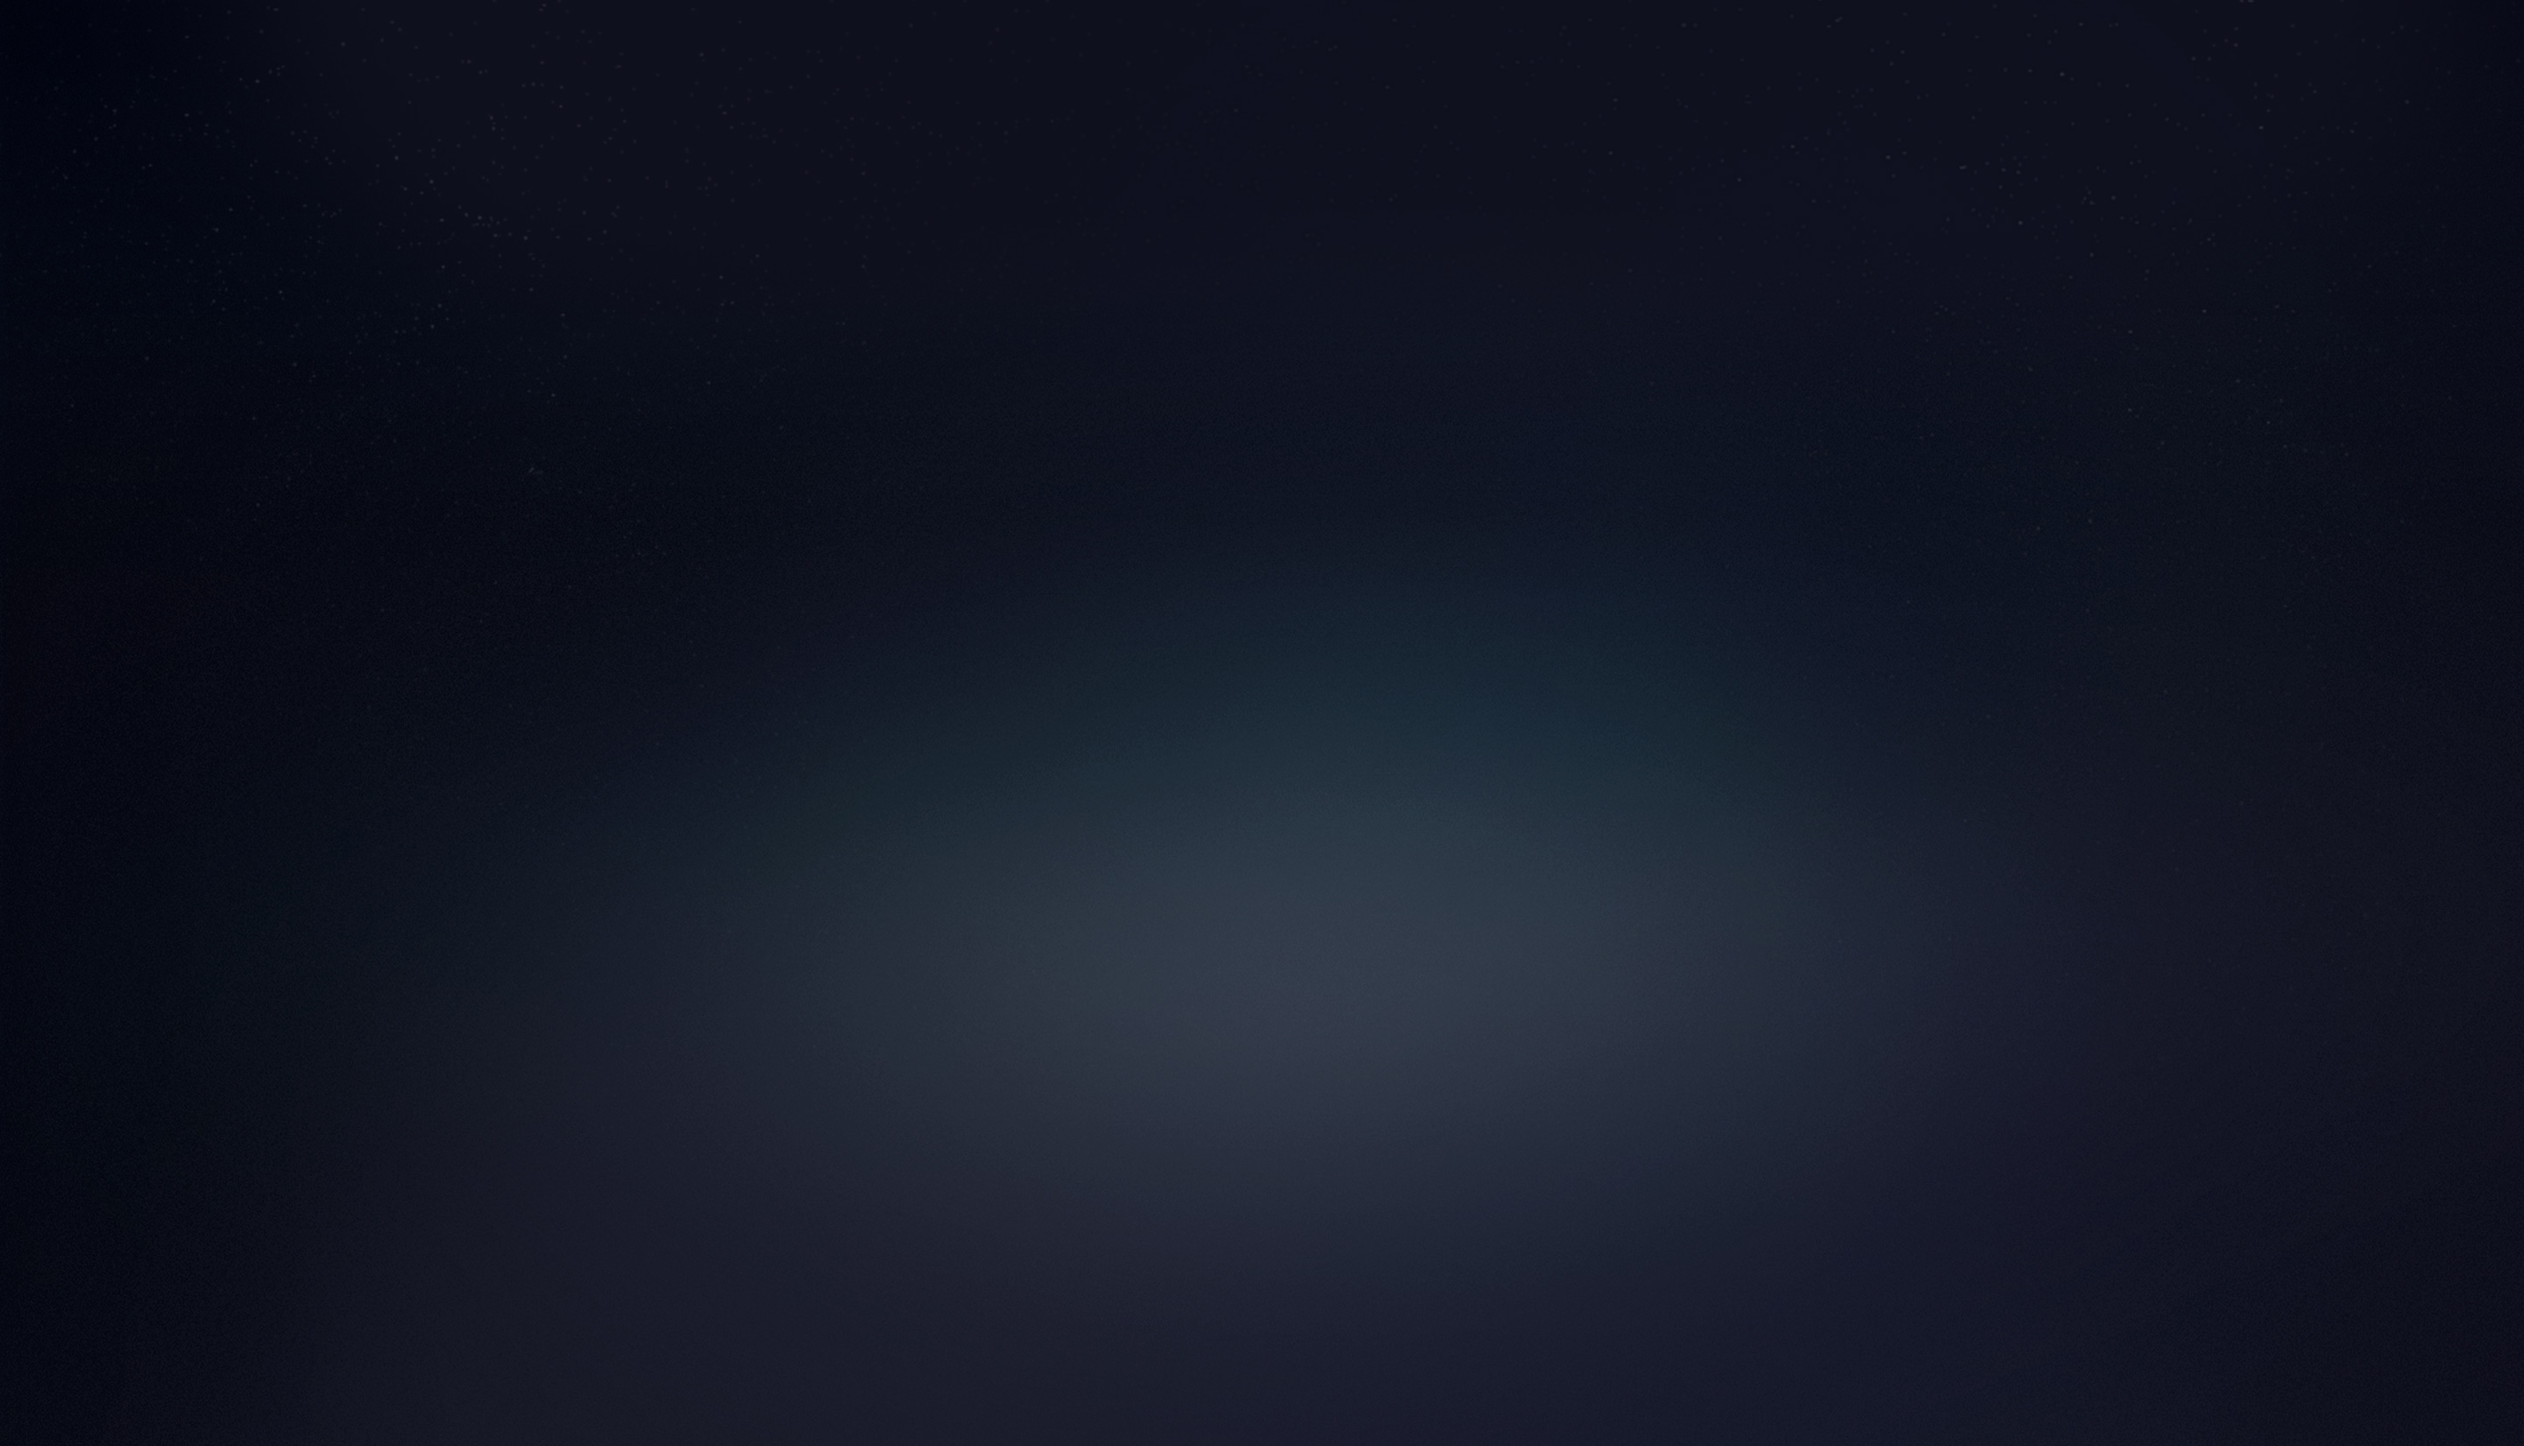
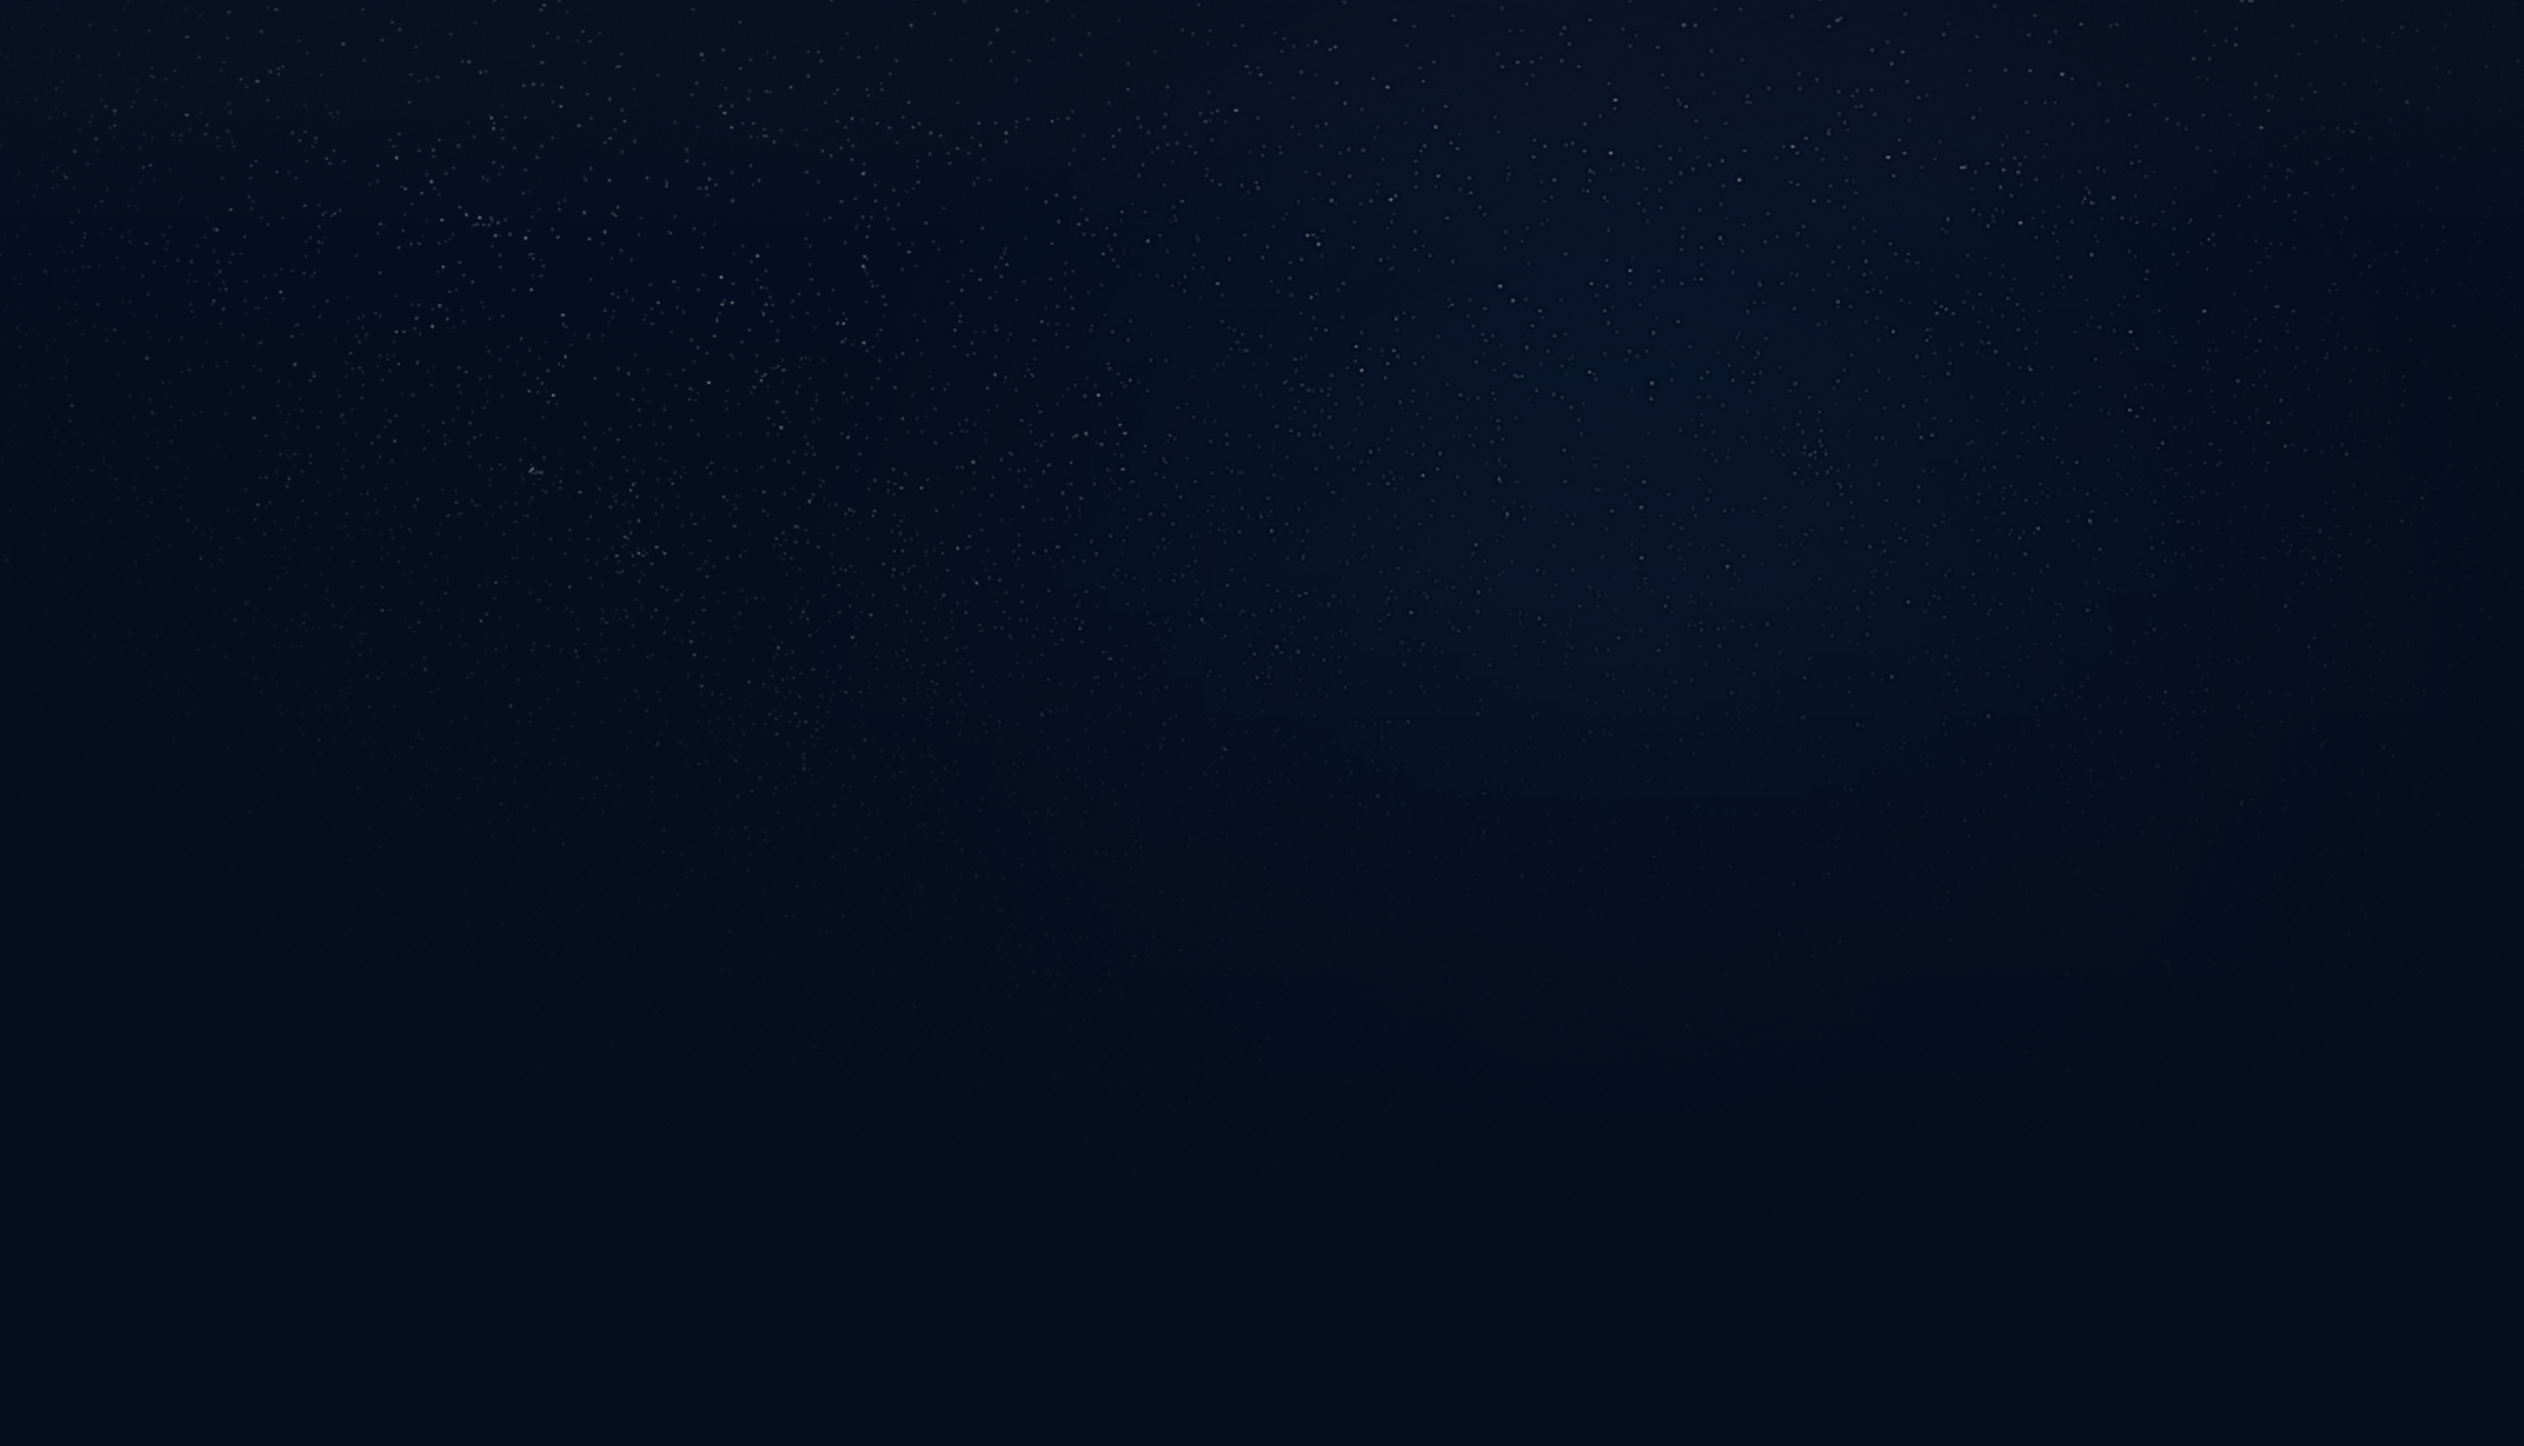
Updating live countdown to the latest and greatest, fixes #491, #492, #493

Changed region(s): [[0.25, 0.4636, 0.7812, 0.9582]]

diff --git a/static/src/sass/blocks/cmp-live-countdown.scss b/static/src/sass/blocks/cmp-live-countdown.scss
@@ -2,83 +2,98 @@
 
 
 .live-countdown {
-  height: 100%;
-  width: 100%;
-  // so to go from top to bottom
-  position: fixed;
-  top: $nav-scoreboard-height;
-  left: 0;
-
+  background: url(/static/img/glow-pcVsYId.png) no-repeat left top;
+  background-size: auto 100%;
+  height: 652px;
+  margin: 0 auto;
   text-align: center;
-  background-color: rgba(0, 0, 0, 0.9);
-  z-index: 2;
-
-  &__content {
-      width: 90%;
-      // so to display the circle from the background properly
-      max-width: 624px;
-      min-height: 550px;
-      background: url(../img/account/circle.png);
-      background-repeat: no-repeat;
-      background-size: 100% auto;
-      background-position: right;
-      text-align: center;
-
-      margin: 0 auto;
-      // margin top so to go above the court
-      margin-top: calc(20vh / 2);
-  }
+  width: 730px;
 
   // this is the container of the text / buttons / timer
-  &__inner {
-    padding-top: 120px;
+  &__lineup-name {
+    color: $primary-white;
+    font-family: $font-oswald;
+    font-size: 30px;
+    line-spacing: 1.5px;
+    padding-top: 184px;
+    text-transform: uppercase;
+  }
 
-    &__lineup-name {
-      font-size: 22px;
-      text-transform: uppercase;
-      line-spacing: 1.5px;
-      font-family: $font-oswald;
-      color: $primary-white;
+  &__startsin {
+    color: #9c9faf;
+    font-weight: 700;
+    font-size: 9px;
+    margin-top: 62px;
+    text-transform: uppercase;
+  }
+
+  .cmp-countdown-clock {
+    display: inline-block;
+    height: 78px;
+    width: 300px;
+
+    .hours :first-child,
+    .minutes :first-child,
+    .seconds {
+      display: inline-block;
+      font-family: $font-droid-sans-mono;
+      font-size: 80px;
+      font-weight: 700;
+      left: 2px;
+      letter-spacing: -4px;
+      line-height: 0.94;
+      position: relative;
+      transform: scaleX(0.92);
     }
 
-    &__startsin {
-      margin-top: 65px;
-      margin-bottom: 30px;
+    .hours,
+    .minutes {
+      color: #8b8e9d;
 
-      font-size: 10px;
-      text-transform: uppercase;
-      line-spacing: 1.5px;
-
-      > .cmp-countdown-clock {
+      :last-child {
+        display: inline-block;
+        font-family: $font-oswald;
         font-size: 70px;
-        padding-top: 30px;
+        left: 1px;
+        position: relative;
+        text-align: center;
+        width: 16px;
+        top: -3px;
       }
     }
 
-    &__actions {
-      margin-top: 70px;
+    .seconds {
+      color: #fff;
+      left: 4px;
+    }
+  }
 
-      .button--medium--outline {
-        text-decoration: none;
-        font-weight: 500;
-        text-transform: uppercase;
-        color: $primary-white;
-        border-color: $primary-charcoal;
-        border-radius: 20px;
-      }
+  &__actions {
+    margin-top: 64px;
 
-      .button--medium--outline:hover {
+    .button--medium--outline {
+      text-decoration: none;
+      font-weight: 500;
+      text-transform: uppercase;
+      color: #fff;
+      border-color: #34374a;
+      border-radius: 16px;
+
+      &:hover {
         border-color: $secondary-grey;
       }
 
-      > .button--medium--outline:first-child {
+      &:active {
+        opacity: 0.8;
+      }
+
+      &:first-child {
         margin-right: 10px;
       }
 
-      > .button--medium--outline:last-child {
+      &:last-child {
         margin-left: 10px;
       }
     }
   }
-
 }

diff --git a/static/src/js/components/live/live.jsx b/static/src/js/components/live/live.jsx
@@ -162,11 +162,13 @@ const Live = React.createClass({
    */
   renderLoadingScreen() {
     return (
-      <div className="live--loading">
-        <div className="preload-court" />
-        <div className="spinner">
-          <div className="double-bounce1" />
-          <div className="double-bounce2" />
+      <div className="live__bg">
+        <div className="live--loading">
+          <div className="preload-court" />
+          <div className="spinner">
+            <div className="double-bounce1" />
+            <div className="double-bounce2" />
+          </div>
         </div>
       </div>
     );
@@ -186,11 +188,13 @@ const Live = React.createClass({
         liveData.hasOwnProperty('entries')
     ) {
       return (
-        <LiveLineupSelectModal
-          changePathAndMode={this.changePathAndMode}
-          entriesLoaded={liveData.entriesHaveLoaded}
-          entries={liveData.entries}
-        />
+        <div className="live__bg">
+          <LiveLineupSelectModal
+            changePathAndMode={this.changePathAndMode}
+            entriesLoaded={liveData.entriesHaveLoaded}
+            entries={liveData.entries}
+          />
+        </div>
       );
     }
 
@@ -204,10 +208,12 @@ const Live = React.createClass({
     // show the countdown until it goes live
     if (myLineup.roster === undefined && liveData.draftGroupStarted === false) {
       return (
-        <LiveCountdown
-          onCountdownComplete={this.forceContestLineupsRefresh}
-          lineup={myLineup}
-        />
+        <div className={`live__bg live--countdown live--sport-${myLineup.draftGroup.sport}`}>
+          <LiveCountdown
+            onCountdownComplete={this.forceContestLineupsRefresh}
+            lineup={myLineup}
+          />
+        </div>
       );
     }
 
@@ -261,7 +267,7 @@ const Live = React.createClass({
       }
 
       return (
-        <div>
+        <div className={`live__bg live--sport-${myLineup.draftGroup.sport}`}>
           <LiveLineup
             changePathAndMode={this.changePathAndMode}
             games={this.props.sportsSelector.games}

diff --git a/static/src/js/components/live/live-countdown.jsx b/static/src/js/components/live/live-countdown.jsx
@@ -1,5 +1,4 @@
 import React from 'react';
-
 import CountdownClock from '../site/countdown-clock';
 
 
@@ -10,31 +9,21 @@ const LiveCountdown = React.createClass({
     onCountdownComplete: React.PropTypes.func.isRequired,
   },
 
-  getInitialState() {
-    return { showMe: true };
-  },
-
   render() {
     const { name, start } = this.props.lineup;
     const editLineup = `/draft/${ this.props.lineup.draftGroup.id }/lineup/${ this.props.lineup.id }/edit/`;
 
     return (
       <div className="live-countdown">
-        <div className="live-countdown__content">
-          <div className="live-countdown__inner">
-            <div className="live-countdown__inner__lineup-name">{ name }</div>
-            <div className="live-countdown__inner__startsin">
-              <div>Starts in</div>
-              <CountdownClock
-                time={ new Date(start).getTime() }
-                onCountdownOver={ this.props.onCountdownComplete }
-              />
-            </div>
-            <div className="live-countdown__inner__actions">
-              <a href={ editLineup } className="button--medium--outline">Edit Lineup</a>
-              <a href="/lobby/" className="button--medium--outline">Edit Contests</a>
-            </div>
-          </div>
+        <div className="live-countdown__lineup-name">{ name }</div>
+        <div className="live-countdown__startsin">Starts in</div>
+        <CountdownClock
+          time={ new Date(start).getTime() }
+          onCountdownOver={ this.props.onCountdownComplete }
+        />
+        <div className="live-countdown__actions">
+          <a href={ editLineup } className="button--medium--outline">Edit Lineup</a>
+          <a href="/lobby/" className="button--medium--outline">Enter Contests</a>
         </div>
       </div>
     );

diff --git a/static/src/sass/blocks/live.scss b/static/src/sass/blocks/live.scss
@@ -1,25 +1,41 @@
 $live-lineup-width: 200px;
 
-body.one-col--live-nba {
-  background: transparent url(../img/blocks/live/bg.jpg) no-repeat left top;
-  background-size: 100% 100%;
-}
-
 .cmp-live {
   min-height: 600px;
   height: 100%;
   margin: 0 auto;
   min-width: 1024px;
+  padding-top: 54px;
   position: relative;
   width: 100%;
 
   // react element
-  > div {
+  .live__bg {
+    background-color: transparent;
+    background-image: transparent url(../img/blocks/live/bg.jpg);
+    background-position: center top;
+    background-repeat: no-repeat;
+    background-size: cover;
     height: 100%;
-  }
 
-  // for the top menu
-  padding-top: 60px;
+    &.live--countdown {
+      &.live--sport {
+        &-mlb {
+          background-image: url(../img/blocks/live-countdown/bg-mlb.jpg);
+          background-size: cover;
+        }
+        &-nba {
+          background-image: url(../img/blocks/live-countdown/bg-nba.jpg);
+          background-size: cover;
+        }
+      }
+    }
+
+    &.live--sport-nba {
+      background: transparent url(../img/blocks/live/bg-nba.jpg) no-repeat left top;
+      background-size: cover;
+    }
+  }
 
   & > * {
     position: relative;
@@ -57,7 +73,6 @@ body.one-col--live-nba {
     left: 0;
     top: 0;
     position: absolute;
-    background: rgba(18, 21, 29, .8);
 
     .spinner {
       width: 40px;

diff --git a/static/src/sass/blocks/cmp-nav-scoreboard.scss b/static/src/sass/blocks/cmp-nav-scoreboard.scss
@@ -7,7 +7,6 @@ $nav-scoreboard-separator-color: #292c39;
 $nav-scoreboard-foreground-color: #25A758;
 
 .cmp-nav-scoreboard {
-  background: $nav-scoreboard-background-color;
   color: #fff;
   height: $nav-scoreboard-height;
   left: 0;
@@ -18,6 +17,7 @@ $nav-scoreboard-foreground-color: #25A758;
 
   // We need a single top-level element that react renders to (aaaannoying).
   .inner {
+    background: $nav-scoreboard-background-color;
     display: flex;
     flex-direction: row;
     position: relative;

diff --git a/static/src/sass/app.scss b/static/src/sass/app.scss
@@ -15,8 +15,7 @@ Hello WOrld!
 @import "./variables.scss";
 
 // Font import
-@import url(http://fonts.googleapis.com/css?family=Open+Sans:400,300,600,700|Oswald:300,400);
-
+@import url(http://fonts.googleapis.com/css?family=Open+Sans:400,300,600,700|Oswald:300,400|Droid+Sans+Mono:400);
 
 // Reusable mixins
 @import "./mixins/_media-queries.scss";

diff --git a/static/src/sass/variables.scss b/static/src/sass/variables.scss
@@ -47,3 +47,4 @@ $font-open-sans: "Open Sans", "Arial", "Helvetica", sans-serif;
 $font-oswald: "Oswald", "Arial", "Helvetica", sans-serif;
 $font-georgia: "Georgia", "Times", "Times New Roman", serif;
 $font-courier-monospace: "Courier New", "Courier", monospace;
+$font-droid-sans-mono: "Droid Sans Mono", monospace;

diff --git a/frontend/templates/frontend/live.html b/frontend/templates/frontend/live.html
@@ -1,7 +1,7 @@
 {% extends "base.html" %}
 {% load staticfiles %}
 
-{% block body_class %}one-col one-col--live-nba{% endblock %}
+{% block body_class %}one-col{% endblock %}
 
 {% block content_container %}
   {% include 'frontend/partials/nav-scoreboard.html' %}

diff --git a/static/src/sass/base.scss b/static/src/sass/base.scss
@@ -204,7 +204,7 @@ html {
 }
 
 html, body {
-  background: #1c1824;
+  background: #050e1f;
   // Avoid the IE 10-11 `min-height` bug by using `height`.
   // Use `%` instead of `vh` since `vh` is buggy in older mobile Safari.
   height: 100%;

diff --git a/static/src/js/components/site/countdown-clock.jsx b/static/src/js/components/site/countdown-clock.jsx
@@ -29,6 +29,7 @@ const CountdownClock = React.createClass({
   },
 
   componentDidMount() {
+    this.setTimeRemaining();
     this.updateTimeRemainingLoop = window.setInterval(this.setTimeRemaining, 1000);
   },
 
